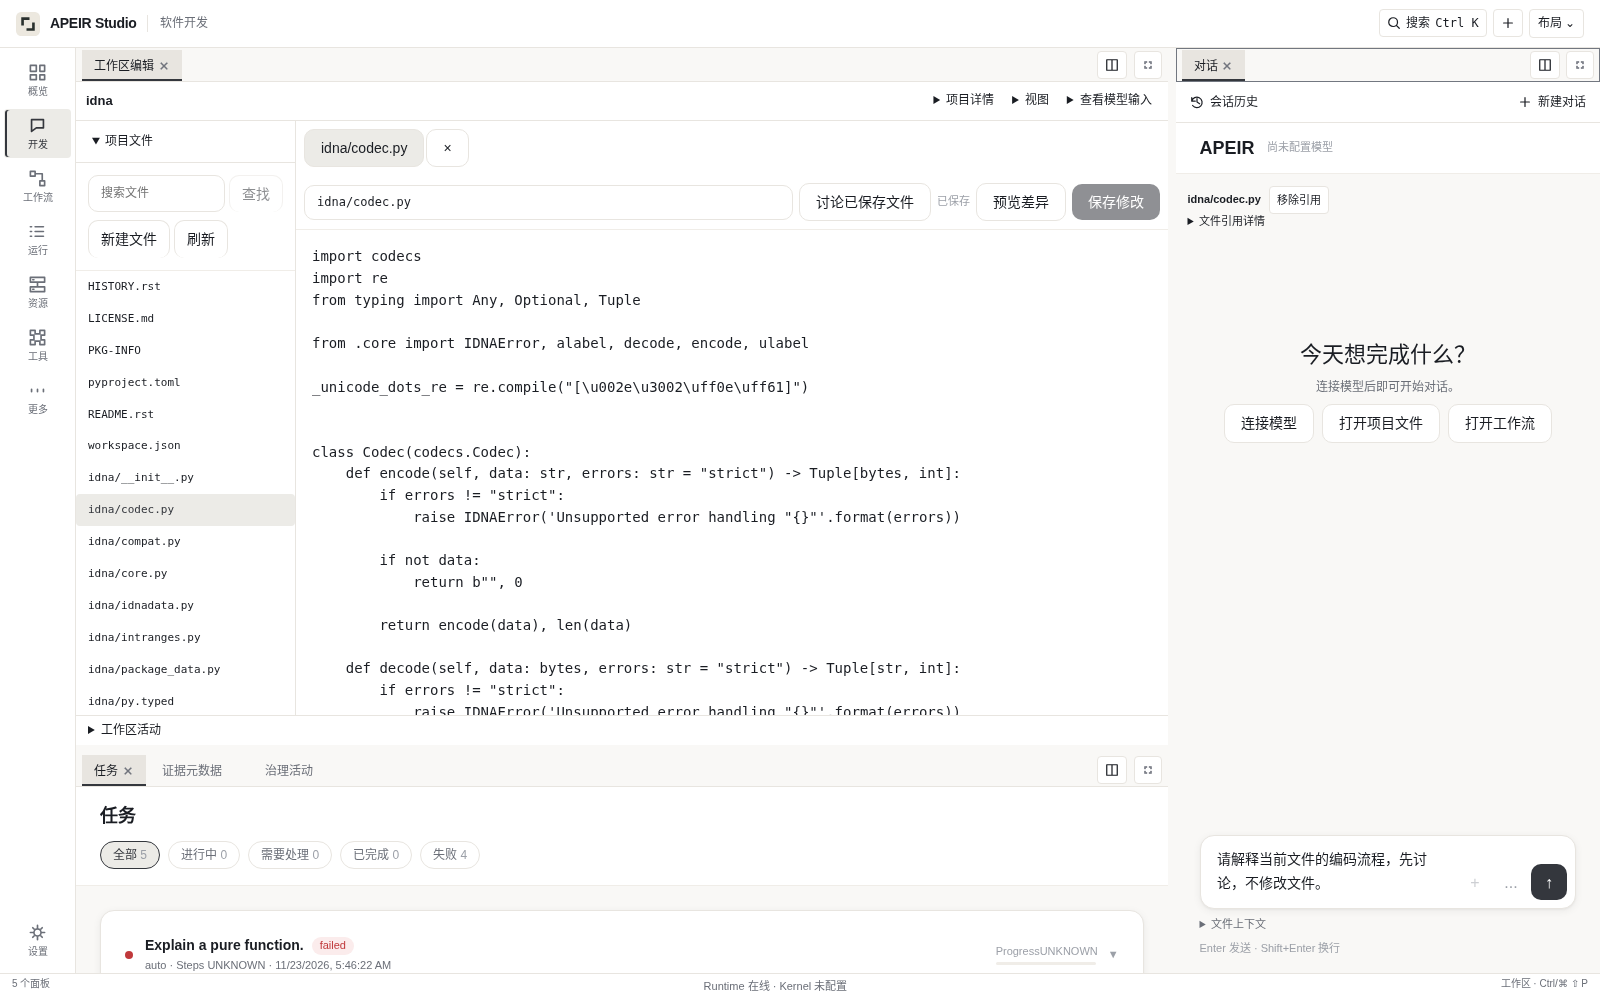
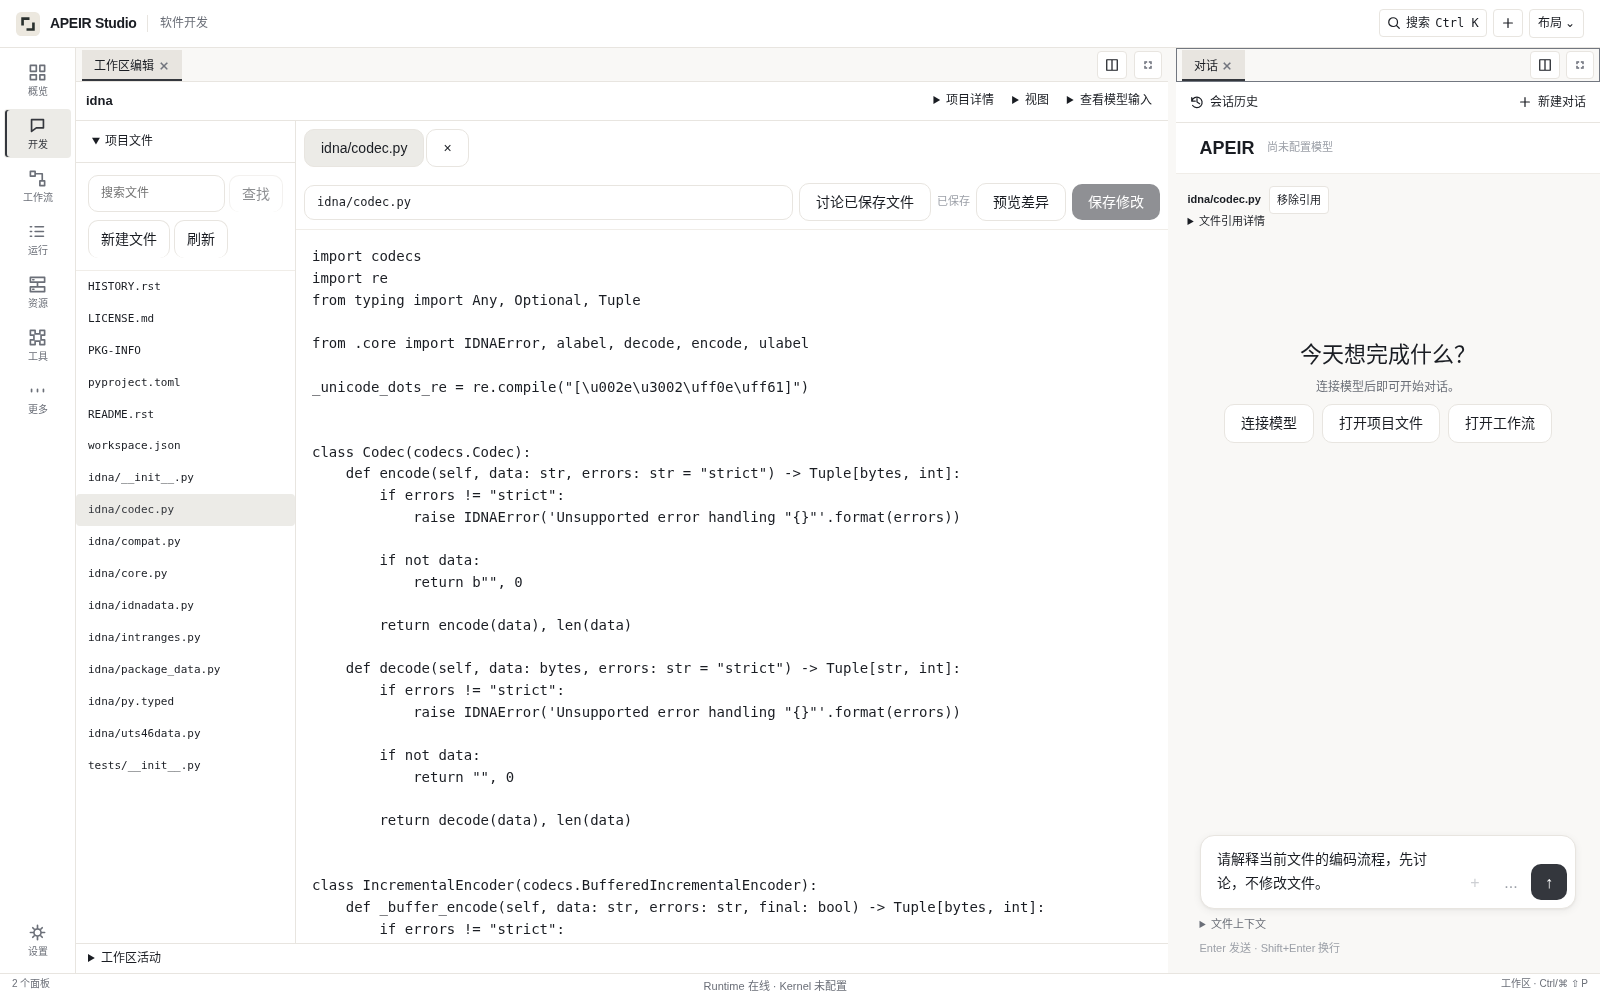
fix(studio): open auxiliary panels on demand

diff --git a/desktop/src/components/studio/StudioPanels.tsx b/desktop/src/components/studio/StudioPanels.tsx
@@ -23,6 +23,7 @@ import type { DrawerView } from "../DetailDrawer";
 
 export type PanelContribution = {
   type: string; en: string; zh: string; owner: string;
+  preferredDock?: "bottom";
   render: (props: PanelProps) => React.ReactNode;
 };
 export type PanelNavigation = { requestId: string; conversationId?: string; filePath?: string; workspaceFile?: { path: string; sha256: string; controller?: string } };
@@ -52,7 +53,7 @@ export const STUDIO_PANELS: readonly PanelContribution[] = [
   { type: "chat", en: "Chat", zh: "对话", owner: "Conversation / Model Gateway", render: p => <StudioChat {...p} /> },
   { type: "files", en: "Project Files", zh: "项目文件", owner: "Workspace API / Governance", render: p => <DeveloperWorkbench navigation={p.navigation} locale={p.locale} embeddedConversation={false} onDiscussSavedFile={workspaceFile => p.open("chat", { requestId: crypto.randomUUID(), workspaceFile })} onDraftChange={p.onDraftChange} onDraftSnapshot={p.onDraftSnapshot} onOpenEnvironments={() => p.open("environment")} /> },
   { type: "editor", en: "Workspace Editor", zh: "工作区编辑", owner: "Workspace API / Governance", render: p => <DeveloperWorkbench navigation={p.navigation} locale={p.locale} embeddedConversation={false} onDiscussSavedFile={workspaceFile => p.open("chat", { requestId: crypto.randomUUID(), workspaceFile })} onDraftChange={p.onDraftChange} onDraftSnapshot={p.onDraftSnapshot} onOpenEnvironments={() => p.open("environment")} /> },
-  { type: "tasks", en: "Tasks", zh: "任务", owner: "EntityStore / Task", render: p => <TaskCenter onTaskClick={taskId => p.inspect({ kind: "task", taskId })} onTraceClick={traceId => p.inspect({ kind: "trace", traceId })} onApprovalClick={requestId => p.inspect({ kind: "approval", requestId })} /> },
+  { type: "tasks", en: "Tasks", zh: "任务", owner: "EntityStore / Task", preferredDock: "bottom", render: p => <TaskCenter onTaskClick={taskId => p.inspect({ kind: "task", taskId })} onTraceClick={traceId => p.inspect({ kind: "trace", traceId })} onApprovalClick={requestId => p.inspect({ kind: "approval", requestId })} /> },
   { type: "models", en: "Models", zh: "模型", owner: "Model Center / Gateway", render: p => <DeveloperPlatform modelsOnly manageProviders locale={p.locale} onDraftChange={p.onDraftChange} onOpenCredentials={() => p.open("credentials")} onOpenApprovals={() => p.open("operations")} /> },
   { type: "credentials", en: "Credentials", zh: "凭据", owner: "Existing native credential manager", render: p => <section className="studio-projection"><h2>{p.locale === "zh" ? "安全凭据" : "Secure credentials"}</h2><CredentialSettings locale={p.locale} onDraftChange={p.onDraftChange} hasOtherDrafts={p.hasOtherDrafts} /></section> },
   { type: "nodes", en: "Nodes", zh: "计算节点", owner: "Controller projection", render: () => <Projection collection="nodes" /> },
@@ -60,13 +61,13 @@ export const STUDIO_PANELS: readonly PanelContribution[] = [
   { type: "workflow", en: "Workflow Builder", zh: "工作流编辑", owner: "WorkflowRuntime / Store / Governance", render: p => <Suspense fallback={<p role="status">LOADING · Workflow</p>}><StudioWorkflow {...p} /></Suspense> },
   { type: "environment", en: "Environment", zh: "环境", owner: "EnvironmentRuntime", render: () => <EnvironmentInspector /> },
   { type: "inspector", en: "Inspector", zh: "检查器", owner: "Existing Operations Console", render: () => <OperationsConsole /> },
-  { type: "evidence", en: "Evidence Metadata", zh: "证据元数据", owner: "DistributedWork receipt / verification metadata", render: () => <Projection collection="evidence" /> },
+  { type: "evidence", en: "Evidence Metadata", zh: "证据元数据", owner: "DistributedWork receipt / verification metadata", preferredDock: "bottom", render: () => <Projection collection="evidence" /> },
   { type: "terminal", en: "Controlled Commands", zh: "受控命令", owner: "Existing Workbench / ProcessSession; not PTY", render: p => <DeveloperWorkbench navigation={p.navigation} embeddedConversation={false} onDraftChange={p.onDraftChange} onDraftSnapshot={p.onDraftSnapshot} /> },
   { type: "diagnostics", en: "Diagnostics", zh: "诊断", owner: "Runtime health projection", render: () => <Projection collection="runtime" /> },
   { type: "documents", en: "Documents", zh: "文档", owner: "DocumentRuntime", render: () => <DocumentWorkbench /> },
   { type: "simulation", en: "Simulation", zh: "仿真", owner: "SimulationRuntime", render: () => <SimulationWorkbench /> },
   { type: "usage", en: "Model Usage", zh: "模型用量", owner: "CostController / Usage accounting", render: p => <StudioUsage isVisible={p.isVisible} locale={p.locale} /> },
-  { type: "activity", en: "Governance Activity", zh: "治理活动", owner: "GovernanceStore audit projection", render: () => <Projection collection="activity" /> },
+  { type: "activity", en: "Governance Activity", zh: "治理活动", owner: "GovernanceStore audit projection", preferredDock: "bottom", render: () => <Projection collection="activity" /> },
   { type: "operations", en: "Operations Console", zh: "操作控制台", owner: "Existing Console / Governance", render: () => <OperationsConsole /> },
 ];
 

diff --git a/desktop/src/lib/studioLayout.ts b/desktop/src/lib/studioLayout.ts
@@ -138,7 +138,7 @@ export function captureStudioLayout(model: IJsonModel, previous: StudioLayout, a
 
 export const STUDIO_TEMPLATES: Record<string, { en: string; zh: string; panels: string[][] }> = {
   general: { en: "General", zh: "通用", panels: [["chat"], ["editor", "tasks", "evidence"]] },
-  software: { en: "Software Development", zh: "软件开发", panels: [["editor"], ["chat", "tasks"], ["evidence", "activity"]] },
+  software: { en: "Software Development", zh: "软件开发", panels: [["editor"], ["chat"]] },
   agents: { en: "AI Agent Development", zh: "智能体开发", panels: [["chat"], ["models", "workflow"], ["tasks", "usage"]] },
   embedded: { en: "Embedded Engineering", zh: "嵌入式工程", panels: [["editor"], ["devices", "nodes"], ["environment", "evidence"]] },
   network: { en: "Network Operations", zh: "网络运维", panels: [["dashboard", "nodes", "devices"], ["diagnostics", "activity"], ["chat", "evidence"]] },
@@ -150,19 +150,10 @@ export function createStudioLayout(template = "general", locale: "en" | "zh" = "
   const preset = STUDIO_TEMPLATES[template];
   if (!preset) throw new Error("Unknown workspace template.");
   let sequence = 0;
-  const tabset = (types: string[], id: string, weight: number) => ({ type: "tabset", id, weight,
-      children: types.map(type => ({ type: "tab", id: `panel-${++sequence}`, component: type, name: type, ...(type === "dashboard" ? { config: template === "network" ? compactDashboard(["runtime", "kernel", "nodes", "resources", "topology", "usage", "works", "evidence"]) : compactDashboard() } : {}) })),
-  });
-  // Only new/explicitly applied presets change; saved v1 layouts retain their tree.
-  const children = template === "software" ? [
-    { type: "row", id: "engineering-main", weight: 72, children: [
-      tabset(["editor"], "group-0", 76),
-      tabset(["tasks", "evidence", "activity"], "group-2", 24),
-    ] },
-    tabset(["chat"], "group-1", 28),
-  ] : preset.panels.map((types, i) => tabset(types, `group-${i}`, template === "general" ? [65, 35][i] : 100 / preset.panels.length));
-  return parseStudioLayout(JSON.stringify({ schemaVersion: 1, kind: "workspace", name: preset.en, locale,
-    layout: { type: "row", id: "studio-root", children } }));
+  return parseStudioLayout(JSON.stringify({ schemaVersion: 1, kind: "workspace", name: preset.en, locale, layout: {
+    type: "row", id: "studio-root", children: preset.panels.map((types, i) => ({ type: "tabset", id: `group-${i}`, weight: template === "software" ? [72, 28][i] : template === "general" ? [65, 35][i] : 100 / preset.panels.length,
+      children: types.map(type => ({ type: "tab", id: `panel-${++sequence}`, component: type, name: type, ...(type === "dashboard" ? { config: template === "network" ? compactDashboard(["runtime", "kernel", "nodes", "resources", "topology", "usage", "works", "evidence"]) : compactDashboard() } : {}) })) })),
+  } }));
 }
 
 export function loadStudioLayout(storage: Storage, key = STUDIO_LAYOUT_KEY): StudioLayout {

diff --git a/desktop/src/components/studio/StudioShell.tsx b/desktop/src/components/studio/StudioShell.tsx
@@ -273,7 +273,12 @@ function StudioWorkspace({ epoch, remember, onProtectionChange, onExit, settings
     if (maximized) model.doAction(Actions.maximizeToggle(maximized.getId()));
     const root = model.getRootRow();
     if (!group && !root) return;
-    const added = model.doAction(Actions.addTab({ type: "tab", id: `panel-${crypto.randomUUID()}`, component: type, name: panel[locale], ...studioPanelSize(type), ...(type === "dashboard" ? { config: compactDashboard() } : {}) }, group?.getId() ?? root!.getId(), group ? DockLocation.CENTER : DockLocation.RIGHT, -1, true));
+    const auxiliary = panel.preferredDock === "bottom";
+    const auxiliaryGroup = auxiliary ? tabs.find(node => panels.some(contribution => contribution.type === node.getComponent() && contribution.preferredDock === "bottom"))?.getParent() : undefined;
+    const target = auxiliaryGroup ?? (auxiliary ? root : group ?? root);
+    if (!target) return;
+    const location = auxiliaryGroup ? DockLocation.CENTER : auxiliary ? DockLocation.BOTTOM : group ? DockLocation.CENTER : DockLocation.RIGHT;
+    const added = model.doAction(Actions.addTab({ type: "tab", id: `panel-${crypto.randomUUID()}`, component: type, name: panel[locale], ...studioPanelSize(type), ...(type === "dashboard" ? { config: compactDashboard() } : {}) }, target.getId(), location, -1, true));
     if (added instanceof TabNode) rememberView(added);
     setRevision(value => value + 1); closeUtility();
   };

diff --git a/desktop/e2e/studio-runtime.spec.ts b/desktop/e2e/studio-runtime.spec.ts
@@ -1767,7 +1767,13 @@ test("Focused engineering layout puts content first and keeps setup, details and
   await expect(page.getByRole("table", { name: "已注册模型", exact: true })).toBeVisible();
   await closeSettings(page);
   await expect(editor).toHaveValue("UNSAVED_FOCUSED_EDITOR");
-  await expect(page.getByRole("region", { name: "任务", exact: true }).getByRole("heading", { name: "任务", exact: true })).toBeVisible();
+  await expect(page.getByRole("region", { name: "任务", exact: true })).toHaveCount(0);
+  await page.getByRole("navigation", { name: "工作台面板", exact: true }).getByRole("button", { name: "运行", exact: true }).click();
+  const tasks = page.getByRole("region", { name: "任务", exact: true });
+  await expect(tasks.getByRole("heading", { name: "任务", exact: true })).toBeVisible();
+  const editorHost = page.locator(".studio-panel-host").filter({ has: editor });
+  expect((await tasks.boundingBox())!.y).toBeGreaterThanOrEqual((await editorHost.boundingBox())!.y + (await editorHost.boundingBox())!.height);
+  await expect(editor).toHaveValue("UNSAVED_FOCUSED_EDITOR");
   const accent = await page.evaluate(() => getComputedStyle(document.documentElement).getPropertyValue("--nous-accent").trim());
   expect(accent).toBe("#34373D");
   await page.screenshot({ path: info.outputPath("focused-engineering-source.png"), animations: "disabled" });

diff --git a/desktop/src/test/studio-layout.test.ts b/desktop/src/test/studio-layout.test.ts
@@ -108,12 +108,12 @@ it("uses the editor-first preset only for a fresh workspace and preserves saved 
   localStorage.clear();
   const layout = loadStudioLayout(localStorage);
   expect(layout.name).toBe("Software Development");
-  expect(layout.layout.children?.[0].type).toBe("row");
+  expect(layout.layout.children).toHaveLength(2);
   const model = Model.fromJson(studioModel(layout));
-  expect(model.getNodeById("group-0")?.getParent()?.getId()).toBe("engineering-main");
-  expect(model.getNodeById("group-2")?.getParent()?.getId()).toBe("engineering-main");
+  expect(model.getNodeById("group-0")?.getParent()?.getId()).toBe("studio-root");
+  expect(model.getNodeById("group-2")).toBeUndefined();
   expect(model.getNodeById("group-1")?.getParent()?.getId()).toBe("studio-root");
-  expect(studioMinimumSize(layout.layout)).toEqual({ width: 709, height: 461 });
+  expect(studioMinimumSize(layout.layout)).toEqual({ width: 709, height: 236 });
   const saved = JSON.stringify(createStudioLayout("general", "zh"));
   localStorage.setItem("apeir.studio.layout.v1", saved);
   expect(loadStudioLayout(localStorage)).toEqual(JSON.parse(saved));

diff --git a/docs/operations/guides/USER_GUIDE.md b/docs/operations/guides/USER_GUIDE.md
@@ -33,7 +33,7 @@ npm run dev
 ```
 
 New workspaces open with the Software Development layout: files and editor on
-the left, Chat on the right, and Tasks/Evidence below the editor. Saved layouts
+the left, Chat on the right, with Tasks/Evidence opened below when needed. Saved layouts
 keep their original positions and panels. Apply a different preset through
 **Layout → Template**, or reopen your saved arrangement from the layout library.
 The left rail selects Overview, Develop, Workflow, Run, Resources, or Tools.
@@ -42,7 +42,7 @@ searchable library to create another instance. All existing modules remain avail
 Project details, editor display settings and recorded model inputs are available
 from the editor toolbar. They no longer take several rows above the file.
 
-新工作区采用软件开发布局：文件与编辑器在左，对话在右，任务和证据在编辑器下方。
+新工作区采用软件开发布局：文件与编辑器在左，对话在右，任务和证据在需要时从下方打开。
 已有布局不会被改写。在“布局 → 模板”中可切换预设；项目详情、视图设置和模型输入
 记录收在编辑器工具栏中。按 Ctrl/Cmd+K 可查找并返回已有面板。
 In Studio, **Discuss saved file** sends the saved path/version reference to the

diff --git a/docs/acceptance/ENGINEERING_REVIEW.md b/docs/acceptance/ENGINEERING_REVIEW.md
@@ -7,7 +7,7 @@ change. Kernel, component lock, Runtime APIs and authorization owners are unchan
 
 | Area | Change / owner |
 | --- | --- |
-| Workspace | EXTEND existing v1 preset: editor/files left, Chat right, Tasks/Evidence below; existing saved trees are read without rewriting them |
+| Workspace | EXTEND existing v1 preset: editor/files left, Chat right, Tasks/Evidence opened below on demand; existing saved trees are read without rewriting them |
 | Navigation | FIX redundant section row; existing rail, panel library, command search and arrangement menus remain available |
 | Editor | EXTEND existing Workbench: compact project/view/input details, independent editor scrolling and expandable history; approvals and errors remain visible |
 | Models | EXTEND existing ProviderSettings: focused add/edit form, retained catalog, explicit separate inference test, current-Controller guards and native key references |
